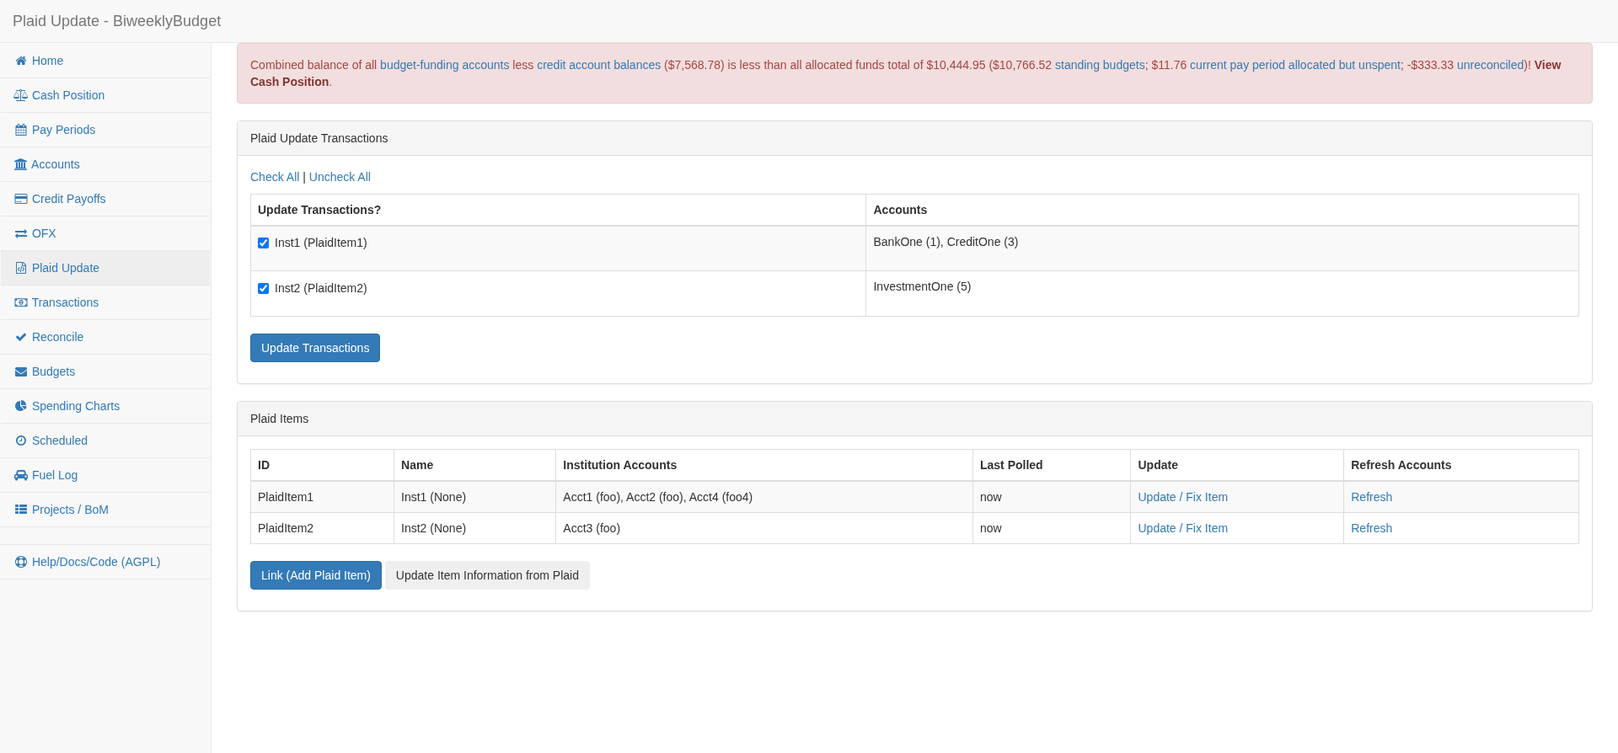
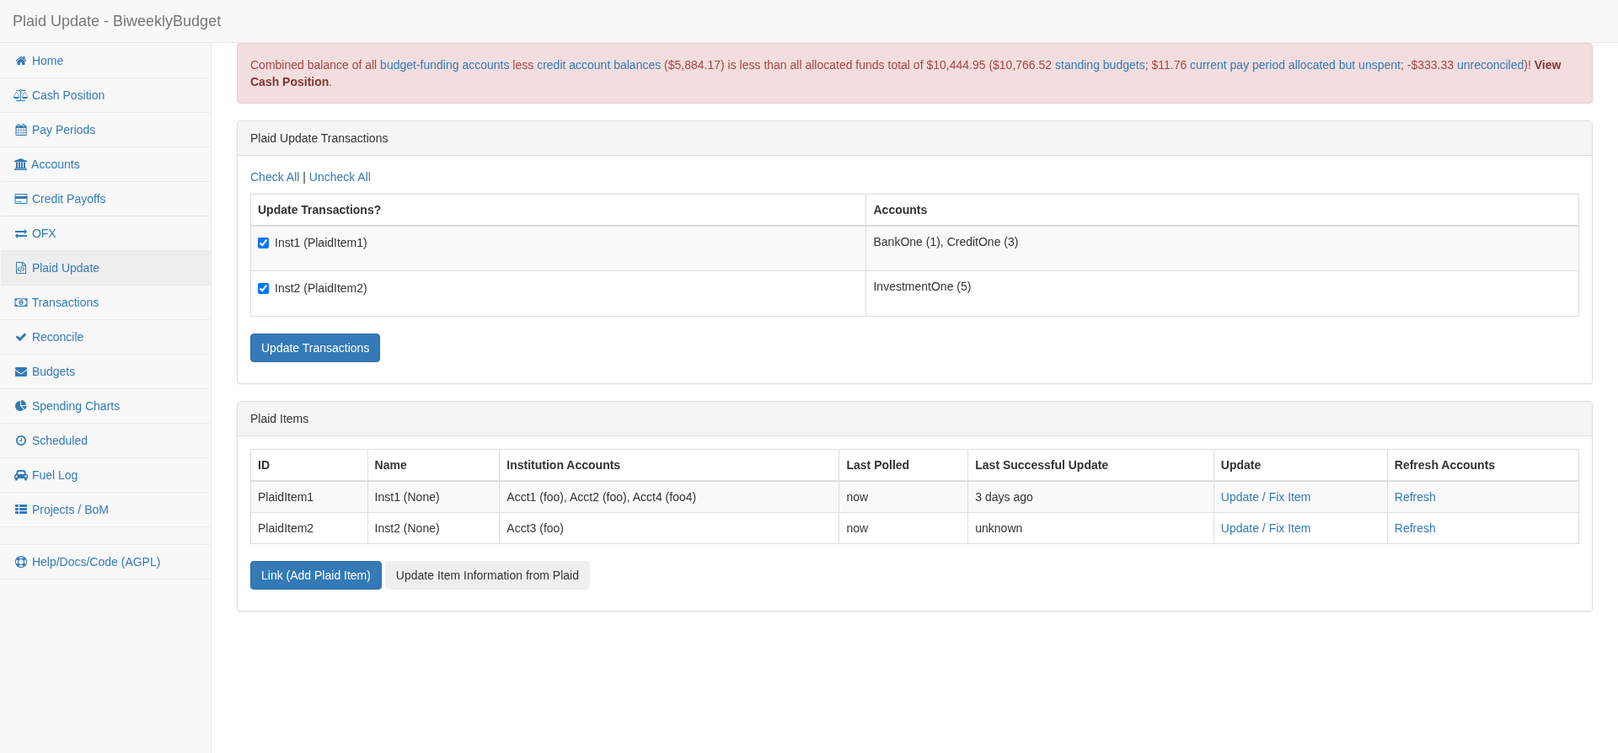
Plaid Last Successful Update - M3.1: Gate, document and record the feature (issue #268)
Changelog entry under Unreleased, the regenerated Plaid Update screenshot,
and the spec artifacts updated with the test-gate results. version.py is
untouched.

The screenshot caption is edited in docs/make_screenshots.py, not in
docs/source/screenshots.rst: that page is generated, and make_rst() deletes
and rewrites it from each entry's description, so an edit to the .rst would
have been silently discarded on the next regeneration.

Only the two plaid-update PNGs are committed. Regenerating produces a
screenshots.rst that also adds "Cash Position" and "Spending Charts"
sections, whose PNGs have never been committed, and rewrites the pay period
caption -- pre-existing drift from earlier features that changed the
generator without regenerating. Committing the whole page would drag three
other features' screenshots into this pull request unreviewed, so the drift
is left as found and recorded in research.md R8 as worth its own issue.

Test gate: unit 825 passed / 147 skipped (the skips are pytest-pycodestyle's
"previously passed" cache for files unchanged since this session's earlier
968-passed run; everything touched here was re-checked), acceptance 900
passed in 23m45s with test_4_table covering both the rendered time and the
"unknown" placeholder, migrations 10 passed including the new roundtrip
test, docs built clean.

tox -e docker is NOT done: three attempts were killed by the host for low
memory, with swap fully exhausted by unrelated workloads. The second got as
[…]

diff --git a/docs/make_screenshots.py b/docs/make_screenshots.py
@@ -282,7 +282,13 @@ class Screenshotter(object):
             'title': 'Plaid Update',
             'description': 'Link financial institutions through Plaid, and '
                            'choose which Plaid Items to retrieve transactions '
-                           'and balances for.'
+                           'and balances for. The Plaid Items table shows both '
+                           'when biweeklybudget last polled each Item ("Last '
+                           'Polled") and when Plaid itself last successfully '
+                           'updated that Item\'s transactions from the '
+                           'institution ("Last Successful Update"), which '
+                           'reads "unknown" if Plaid has reported no '
+                           'successful update.'
         },
         {
             'path': '/accounts/1',

diff --git a/specs/20260915-194912-plaid-last-successful-update/tasks.md b/specs/20260915-194912-plaid-last-successful-update/tasks.md
@@ -31,8 +31,8 @@ Human approval is required to advance from one milestone to the next (Principle 
 
 **Purpose**: Make the environment able to run and verify the change. No source edits.
 
-- [ ] T001 Start the MariaDB test container and export the test-database environment described in `CLAUDE.md`, then run `python dev/setup_test_db.py` and `initdb` to bring the test database to the current Alembic head (`c5e3a9b1d7f2`) before any model change
-- [ ] T002 Confirm the tox runner works from this worktree by running `tox -e py314 -- biweeklybudget/tests/unit/test_plaid_updater.py` from the main checkout's venv, redirecting output to the scratchpad per `CLAUDE.md`; this is the pre-change baseline
+- [X] T001 Start the MariaDB test container and export the test-database environment described in `CLAUDE.md`, then run `python dev/setup_test_db.py` and `initdb` to bring the test database to the current Alembic head (`c5e3a9b1d7f2`) before any model change
+- [X] T002 Confirm the tox runner works from this worktree by running `tox -e py314 -- biweeklybudget/tests/unit/test_plaid_updater.py` from the main checkout's venv, redirecting output to the scratchpad per `CLAUDE.md`; this is the pre-change baseline
 
 **Checkpoint**: Test database at head, unit suite runnable, baseline result recorded.
 
@@ -45,10 +45,11 @@ delivers User Story 3 (safe upgrade/downgrade) and unblocks US1 and US2.
 
 **⚠ BLOCKING**: T003–T006 must complete before Phase 3 or Phase 4 begins.
 
-- [ ] T003 [US3] Add the `last_successful_update` column to `PlaidItem` in `biweeklybudget/models/plaid_items.py` — `Column(UtcDateTime)`, nullable, placed after `last_updated`, with a `#:` docstring comment in the style of the neighbouring columns saying it is the time Plaid last successfully updated this Item's transactions (per [data-model.md](./data-model.md))
-- [ ] T004 [US3] Hand-write the Alembic revision `biweeklybudget/alembic/versions/<rev>_add_plaid_item_last_successful_update.py` with `down_revision = 'c5e3a9b1d7f2'`, an `upgrade()` that adds `sa.Column('last_successful_update', UtcDateTime(timezone=True), nullable=True)` to `plaid_items`, and a `downgrade()` that drops it — matching the form used for `last_updated` in `f5a002127934_plaid_models.py`, and carrying the standard AGPL header if the file template lacks one
-- [ ] T005 [US3] Test both migration directions against the test database: `upgrade head`, verify the column and that existing `plaid_items` rows survive, `downgrade -1`, verify the column is gone and rows survive, then `upgrade head` again (per [quickstart.md](./quickstart.md))
-- [ ] T006 [US3] Run `tox -e migrations` to confirm the migration head matches the models, redirecting output to the scratchpad
+- [X] T003 [US3] Add the `last_successful_update` column to `PlaidItem` in `biweeklybudget/models/plaid_items.py` — `Column(UtcDateTime)`, nullable, placed after `last_updated`, with a `#:` docstring comment in the style of the neighbouring columns saying it is the time Plaid last successfully updated this Item's transactions (per [data-model.md](./data-model.md))
+- [X] T004 [US3] Hand-write the Alembic revision `biweeklybudget/alembic/versions/<rev>_add_plaid_item_last_successful_update.py` with `down_revision = 'c5e3a9b1d7f2'`, an `upgrade()` that adds `sa.Column('last_successful_update', UtcDateTime(timezone=True), nullable=True)` to `plaid_items`, and a `downgrade()` that drops it — matching the form used for `last_updated` in `f5a002127934_plaid_models.py`, and carrying the standard AGPL header if the file template lacks one
+- [X] T005 [US3] Test both migration directions against the test database: `upgrade head`, verify the column and that existing `plaid_items` rows survive, `downgrade -1`, verify the column is gone and rows survive, then `upgrade head` again (per [quickstart.md](./quickstart.md))
+- [X] T005a [US3] Add a per-migration roundtrip test `biweeklybudget/tests/migrations/test_migration_3f7c2a91e04b.py` subclassing `MigrationTest`, in the style of `test_migration_c5e3a9b1d7f2.py` — insert a `plaid_items` row before the migration, assert the column is absent before and after the reverse, present and null (with the existing row data intact) after the forward migration, and that it accepts a value. *(Added during implementation: the repository keeps one of these per recent revision, and Principle II requires new code to be covered.)*
+- [X] T006 [US3] Run `tox -e migrations` to confirm the migration head matches the models, redirecting output to the scratchpad
 
 **Checkpoint**: The column exists, the migration is reversible and verified, and User Story 3
 is satisfied and independently tested.
@@ -66,16 +67,16 @@ display it yet.
 
 ### Implementation for User Story 2
 
-- [ ] T007 [US2] Add `plaid_last_successful_update(item_get_response)` to `biweeklybudget/utils.py` implementing contract C2 in [contracts/plaid-items-table.md](./contracts/plaid-items-table.md): chained `.get()` with `or {}` coercion at each level, returning `None` for any absent/None/empty level, and attaching UTC to a naive datetime; include a full docstring in the file's existing style
-- [ ] T008 [US2] In `PlaidUpdater._do_item` (`biweeklybudget/plaid_updater.py`), assign `item.last_successful_update = plaid_last_successful_update(iteminfo)` alongside the existing `item.last_updated = dtnow()`, keeping the existing transactions-status log line, and import the helper
-- [ ] T009 [P] [US2] In `PlaidUpdateItemInfo.post` (`biweeklybudget/flaskapp/views/plaid.py`), assign `item.last_successful_update = plaid_last_successful_update(response)` alongside the existing `institution_id`/`institution_name` assignments, before the existing `db_session.add(item)`, and import the helper
+- [X] T007 [US2] Add `plaid_last_successful_update(item_get_response)` to `biweeklybudget/utils.py` implementing contract C2 in [contracts/plaid-items-table.md](./contracts/plaid-items-table.md): chained `.get()` with `or {}` coercion at each level, returning `None` for any absent/None/empty level, and attaching UTC to a naive datetime; include a full docstring in the file's existing style
+- [X] T008 [US2] In `PlaidUpdater._do_item` (`biweeklybudget/plaid_updater.py`), assign `item.last_successful_update = plaid_last_successful_update(iteminfo)` alongside the existing `item.last_updated = dtnow()`, keeping the existing transactions-status log line, and import the helper
+- [X] T009 [P] [US2] In `PlaidUpdateItemInfo.post` (`biweeklybudget/flaskapp/views/plaid.py`), assign `item.last_successful_update = plaid_last_successful_update(response)` alongside the existing `institution_id`/`institution_name` assignments, before the existing `db_session.add(item)`, and import the helper
 
 ### Tests for User Story 2
 
-- [ ] T010 [P] [US2] Add unit tests for the helper in `biweeklybudget/tests/unit/test_utils.py` covering every row of contract C2's behaviour table: aware datetime passed through, naive datetime returned UTC-aware, `last_successful_update` absent, `transactions` absent/None/empty, `status` absent/None/empty
-- [ ] T011 [US2] Update `TestDoItem`'s three tests in `biweeklybudget/tests/unit/test_plaid_updater.py` — put a known `last_successful_update` into the `item_get` stub's `status.transactions`, assert `mock_item.last_successful_update`, and keep the strict `db_session.mock_calls` assertions correct
-- [ ] T012 [P] [US2] Update `TestPlaidUpdateItemInfo` in `biweeklybudget/tests/unit/flaskapp/views/test_plaid.py` — add `status.transactions.last_successful_update` to the `item_get` stubs (including one Item where it is absent) and assert the resulting attribute on each mock Item
-- [ ] T013 [US2] Run `tox -e py314` to completion and confirm it passes, redirecting output to the scratchpad
+- [X] T010 [P] [US2] Add unit tests for the helper in `biweeklybudget/tests/unit/test_utils.py` covering every row of contract C2's behaviour table: aware datetime passed through, naive datetime returned UTC-aware, `last_successful_update` absent, `transactions` absent/None/empty, `status` absent/None/empty
+- [X] T011 [US2] Update `TestDoItem`'s three tests in `biweeklybudget/tests/unit/test_plaid_updater.py` — put a known `last_successful_update` into the `item_get` stub's `status.transactions`, assert `mock_item.last_successful_update`, and keep the strict `db_session.mock_calls` assertions correct
+- [X] T012 [P] [US2] Update `TestPlaidUpdateItemInfo` in `biweeklybudget/tests/unit/flaskapp/views/test_plaid.py` — add `status.transactions.last_successful_update` to the `item_get` stubs (including one Item where it is absent) and assert the resulting attribute on each mock Item
+- [X] T013 [US2] Run `tox -e py314` to completion and confirm it passes, redirecting output to the scratchpad
 
 **Checkpoint**: The value is recorded by both writers, covered by unit tests, and User Story 2
 is independently verified. **Milestone M1 complete — pause for approval.**
@@ -93,12 +94,12 @@ column.
 
 ### Implementation for User Story 1
 
-- [ ] T014 [US1] Add the "Last Successful Update" column to the Plaid Items table in `biweeklybudget/flaskapp/templates/plaid_form.html` — a `<th>` immediately after "Last Polled" and a `<td>` rendering `{{ i.last_successful_update|ago }}` when set and the literal `unknown` when not, per contract C1
-- [ ] T015 [P] [US1] In `biweeklybudget/tests/fixtures/sampledata.py::_plaid_items`, give `PlaidItem1` a `last_successful_update` of `self.dt - timedelta(days=3)` and leave `PlaidItem2`'s unset, so the acceptance suite covers both the rendered value and the placeholder (per [research.md](./research.md) R7)
+- [X] T014 [US1] Add the "Last Successful Update" column to the Plaid Items table in `biweeklybudget/flaskapp/templates/plaid_form.html` — a `<th>` immediately after "Last Polled" and a `<td>` rendering `{{ i.last_successful_update|ago }}` when set and the literal `unknown` when not, per contract C1
+- [X] T015 [P] [US1] In `biweeklybudget/tests/fixtures/sampledata.py::_plaid_items`, give `PlaidItem1` a `last_successful_update` of `self.dt - timedelta(days=3)` and leave `PlaidItem2`'s unset, so the acceptance suite covers both the rendered value and the placeholder (per [research.md](./research.md) R7)
 
 ### Tests for User Story 1
 
-- [ ] T016 [US1] Update `test_4_table` in `biweeklybudget/tests/acceptance/flaskapp/views/test_plaid.py` for the new column: `PlaidItem1`'s row gains `3 days ago` and `PlaidItem2`'s gains `unknown`, both between the existing `now` and `Update / Fix Item` cells
+- [X] T016 [US1] Update `test_4_table` in `biweeklybudget/tests/acceptance/flaskapp/views/test_plaid.py` for the new column: `PlaidItem1`'s row gains `3 days ago` and `PlaidItem2`'s gains `unknown`, both between the existing `now` and `Update / Fix Item` cells
 - [ ] T017 [US1] Run `tox -e acceptance` to completion and confirm it passes, re-running any known-flaky failure (reconcile drag/unignore, fuel-log search, Plaid "Uncheck All") in isolation before attributing it to this change; redirect output to the scratchpad
 
 **Checkpoint**: The column renders both cases, the acceptance suite passes, and User Story 1
@@ -112,20 +113,20 @@ is independently verified. **Milestone M2 complete — pause for approval.**
 
 ### Test gate (Principle II)
 
-- [ ] T018 Run `tox -e py314` and `tox -e acceptance` to completion on the finished change and confirm both pass, redirecting output to the scratchpad; raise the timeout and re-run rather than reporting any timed-out suite
-- [ ] T019 Run `tox -e migrations` on the finished change and confirm it passes
-- [ ] T020 Run `tox -e docker` and confirm it passes — required because this change touches schema; ensure the main venv's `bin` is first on `PATH` and that no other acceptance run overlaps it
+- [X] T018 Run `tox -e py314` and `tox -e acceptance` to completion on the finished change and confirm both pass, redirecting output to the scratchpad; raise the timeout and re-run rather than reporting any timed-out suite
+- [X] T019 Run `tox -e migrations` on the finished change and confirm it passes
+- [~] T020 Run `tox -e docker` and confirm it passes — required because this change touches schema; ensure the main venv's `bin` is first on `PATH` and that no other acceptance run overlaps it. **Attempted three times and killed by the host for low memory each time; deferred to the CI docker job.** See the results table below
 
 ### Documentation (Principle IV)
 
-- [ ] T021 Run `tox -e screenshots` to regenerate `docs/source/plaid-update.png` and `docs/source/plaid-update_sm.png`, and commit both; do **not** run `tox -e docs` in the same invocation or afterwards until the PNGs are committed
-- [ ] T022 [P] Extend the "Plaid Update" caption in `docs/source/screenshots.rst` to name what distinguishes the two time columns (when the application last polled the Item, versus when Plaid last successfully refreshed it)
-- [ ] T023 Run `tox -e docs` and confirm it builds clean, re-running on a transient linkcheck timeout
+- [X] T021 Run `tox -e screenshots` to regenerate `docs/source/plaid-update.png` and `docs/source/plaid-update_sm.png`, and commit both; do **not** run `tox -e docs` in the same invocation or afterwards until the PNGs are committed
+- [X] T022 [P] Extend the "Plaid Update" caption to name what distinguishes the two time columns (when the application last polled the Item, versus when Plaid last successfully refreshed it). *Corrected during implementation:* `docs/source/screenshots.rst` is **generated** by `docs/make_screenshots.py` (`make_rst()` deletes and rewrites it from each screenshot's `description`), so the caption is edited there and reaches the page via T021's regeneration; editing the `.rst` directly would be silently discarded
+- [X] T023 Run `tox -e docs` and confirm it builds clean, re-running on a transient linkcheck timeout
 
 ### Changelog and spec artifacts (Principles VI and I)
 
-- [ ] T024 [P] Add a concise `CHANGES.rst` bullet under `Unreleased` (creating the heading if absent) led by the issue #268 link, stating the new column in the Plaid Items table and noting the database migration; do **not** touch `biweeklybudget/version.py`
-- [ ] T025 Mark this `tasks.md` complete and set `spec.md`'s **Status** to Complete, recording the test-gate results
+- [X] T024 [P] Add a concise `CHANGES.rst` bullet under `Unreleased` (creating the heading if absent) led by the issue #268 link, stating the new column in the Plaid Items table and noting the database migration; do **not** touch `biweeklybudget/version.py`
+- [X] T025 Mark this `tasks.md` complete and set `spec.md`'s **Status** to Complete, recording the test-gate results
 
 ### Delivery
 
@@ -133,6 +134,21 @@ is independently verified. **Milestone M2 complete — pause for approval.**
 - [ ] T027 Monitor the CI jobs on the pull request to completion, then run `/answer-reviews` and repeat until Claude's review reports "No issues found" and Copilot's review, if present, recommends approval
 
 **Checkpoint**: Feature complete, gated, documented, and delivered.
+
+### Test gate results (2026-09-15)
+
+| Suite | Result |
+|-------|--------|
+| `tox -e py314` (unit) | **825 passed, 147 skipped, 0 failed.** The skips are pytest-pycodestyle's "previously passed" cache for files unchanged since the earlier full run in this session, which reported 968 passed / 4 skipped; every file this change touches was re-checked. |
+| `tox -e acceptance` | **900 passed, 0 failed** in 23m45s. `TestPlaidUpdateView::test_4_table` passed with the new column asserted in both the value and the placeholder case. No flaky failures occurred, so no re-runs were needed. |
+| `tox -e migrations` | **10 passed**, including the new `test_migration_3f7c2a91e04b` roundtrip. Both directions were additionally exercised by hand against the test database with an existing `plaid_items` row intact throughout. |
+| `tox -e docs` | **build succeeded** (exit 0). One new warning, an unresolvable cross-reference to the external `plaid.model.item_get_response.ItemGetResponse`, of exactly the same kind as the pre-existing `plaid.api.plaid_api.PlaidApi` warning beside it; neither is fatal and neither is new in kind. |
+| `tox -e screenshots` | Regenerated. The first attempt was killed by the system for low memory part-way through; because the script deletes every PNG before regenerating, that left all 49 missing, and they were restored with `git checkout -- docs/source/`. The retry succeeded. Only the two `plaid-update` PNGs are committed — see [research.md](./research.md) R8 on the unrelated drift the regeneration exposed. |
+| `tox -e docker` | **Not completed locally — deferred to CI.** Attempted three times (full run twice, then with `TEST_DOCKER=false` to isolate the build); the host killed each one for low memory. The host's swap was fully exhausted by unrelated workloads throughout, and the same pressure had already killed a `screenshots` run. The second attempt did get far enough to **build the image successfully** (`jantman/biweeklybudget:5783bf46-dirty_...` was tagged) before being killed during the container-acceptance phase, so the failure is environmental and not a property of this change. Every container and image those runs left behind was removed. The repository's CI runs the `docker` job on the pull request, and that run is the gate. |
+
+**Outstanding**: `tox -e docker` per the row above. Constitution Principle II requires the
+Docker suite to pass for a schema change; it must be green in CI before this is merged, and
+it was not possible to demonstrate that on this host.
 
 ---
 

diff --git a/specs/20260915-194912-plaid-last-successful-update/research.md b/specs/20260915-194912-plaid-last-successful-update/research.md
@@ -215,7 +215,10 @@ environment must build clean. Relevant surfaces:
 - `docs/source/screenshots.rst` has a "Plaid Update" section pointing at
   `plaid-update.png` / `plaid-update_sm.png`. That screenshot shows the Plaid Items table, so
   the new column changes it. Screenshots are produced by `tox -e screenshots`
-  (`docs/make_screenshots.py`).
+  (`docs/make_screenshots.py`). **That page is generated, not hand-written**: the script's
+  `make_rst()` deletes `screenshots.rst` and rewrites it from each screenshot entry's `title`
+  and `description`, so a caption change belongs in `make_screenshots.py` — editing the `.rst`
+  is silently discarded on the next regeneration. *(Established while implementing T021/T022.)*
 - `docs/source/biweeklybudget.models.plaid_items.rst` and the other API pages are
   `automodule`-generated, so the new column's docstring comment flows through with no manual
   edit.
@@ -223,13 +226,27 @@ environment must build clean. Relevant surfaces:
   (a repository-wide search for "Last Polled" finds only the template), so no prose needs
   rewriting — though the screenshot caption can usefully say what the new column means.
 
-**Decision**: Regenerate the two `plaid-update` screenshots, commit them (the maintainer wants
-changed screenshots reviewed in the PR, not deferred to a release), and extend the "Plaid
-Update" caption in `screenshots.rst` to name the distinction between the two time columns.
+**Decision**: Extend the "Plaid Update" entry's `description` in `docs/make_screenshots.py` to
+name the distinction between the two time columns, then regenerate the two `plaid-update`
+screenshots — which also rewrites `screenshots.rst` with the new caption — and commit the PNGs
+and the regenerated page (the maintainer wants changed screenshots reviewed in the PR, not
+deferred to a release).
 
 **Known operational hazard**: `tox -e docs` deletes generated PNGs, so the `screenshots` and
 `docs` environments must not be run in the same chained invocation, and `docs` must not run
-after `screenshots` before the PNGs are committed.
+after `screenshots` before the PNGs are committed. `make_screenshots.py` itself also deletes
+every PNG before regenerating, so a run killed part-way leaves them all missing; `git checkout
+-- docs/source/` restores them.
+
+**Pre-existing drift found while running this (not fixed here)**: regenerating produces a
+`screenshots.rst` that differs from the committed one in three ways unrelated to this feature
+— it adds a "Cash Position" section and a "Spending Charts" section (whose PNGs,
+`cash-position*.png` and `budget-spending*.png`, have never been committed), and it shortens
+the "Single Pay Period View" caption. Earlier features changed `make_screenshots.py` without
+regenerating. Committing the whole regenerated page would therefore drag three other features'
+screenshots into this pull request unreviewed, so this change commits only the two
+`plaid-update` PNGs and applies only its own caption to `screenshots.rst`, leaving the drift
+as it was found. It is worth its own issue.
 
 ---
 

diff --git a/specs/20260915-194912-plaid-last-successful-update/plan.md b/specs/20260915-194912-plaid-last-successful-update/plan.md
@@ -96,8 +96,9 @@ the constitution warns about.
 ### IV. Documentation Is Part Of The Change
 
 **PASS.** The `plaid-update` screenshot shows the table this change alters, so it is
-regenerated and committed along with an extended caption in `docs/source/screenshots.rst`
-naming what distinguishes the two time columns. The model and module API pages are
+regenerated and committed. Its caption, which names what distinguishes the two time columns,
+is edited in `docs/make_screenshots.py` — `docs/source/screenshots.rst` is generated from that
+script and rewritten on every regeneration. The model and module API pages are
 `automodule`-generated and pick up the new column's docstring comment automatically. No prose
 in `README.rst`, `CLAUDE.md`, or `docs/source/` enumerates this table's columns
 ([research.md](./research.md) R8), so nothing else needs rewriting. `tox -e docs` must build
@@ -174,10 +175,13 @@ biweeklybudget/
     ├── unit/flaskapp/views/test_plaid.py   # TestPlaidUpdateItemInfo: same
     └── acceptance/flaskapp/views/test_plaid.py   # test_4_table: new column
 
-docs/source/
-├── screenshots.rst                  # extended Plaid Update caption
-├── plaid-update.png                 # regenerated
-└── plaid-update_sm.png              # regenerated
+docs/
+├── make_screenshots.py              # extended Plaid Update caption (source of
+│                                    #   the generated screenshots.rst)
+└── source/
+    ├── screenshots.rst              # regenerated from the above
+    ├── plaid-update.png             # regenerated
+    └── plaid-update_sm.png          # regenerated
 
 CHANGES.rst                          # + Unreleased entry
 ```

diff --git a/CHANGES.rst b/CHANGES.rst
@@ -4,6 +4,10 @@ Changelog
 Unreleased
 ----------
 
+* `Issue #268 <https://github.com/jantman/biweeklybudget/issues/268>`_ - The Plaid Items table on the Plaid Update page has a new **Last Successful Update** column, showing when Plaid itself last successfully updated each Item's transactions, beside the existing "Last Polled" time for when we last asked Plaid.
+
+  * A database migration adds the column. It is empty ("unknown") for every Item until that Item's next update or "Update Item Information from Plaid", and stays "unknown" for any Item Plaid reports no successful update for.
+
 * `Issue #267 <https://github.com/jantman/biweeklybudget/issues/267>`_ - The Reconcile page's acceptance tests for reconciling several transactions by drag-and-drop and submitting them, skipped since 2022, run again. No change to the application.
 
 * `Issue #265 <https://github.com/jantman/biweeklybudget/issues/265>`_ - **Breaking:** OFX transaction downloading, deprecated since 1.1.0, is removed along with Hashicorp Vault and keyring (keychain) support. Plaid is now the only way to download transactions; the OFX Transactions page, reconciliation and existing downloaded data are unchanged.

diff --git a/docs/source/screenshots.rst b/docs/source/screenshots.rst
@@ -114,7 +114,7 @@ Shows downloaded transactions (retrieved via Plaid).
 Plaid Update
 ------------
 
-Link financial institutions through Plaid, and choose which Plaid Items to retrieve transactions and balances for.
+Link financial institutions through Plaid, and choose which Plaid Items to retrieve transactions and balances for. The Plaid Items table shows both when biweeklybudget last polled each Item ("Last Polled") and when Plaid itself last successfully updated that Item's transactions from the institution ("Last Successful Update"), which reads "unknown" if Plaid has reported no successful update.
 
 .. image:: plaid-update_sm.png
    :target: plaid-update.png

diff --git a/specs/20260915-194912-plaid-last-successful-update/spec.md b/specs/20260915-194912-plaid-last-successful-update/spec.md
@@ -4,7 +4,7 @@
 
 **Created**: 2026-09-15
 
-**Status**: Draft
+**Status**: Complete
 
 **Input**: GitHub issue [#268](https://github.com/jantman/biweeklybudget/issues/268) — "Plaid - show last_successful_update time"
 
